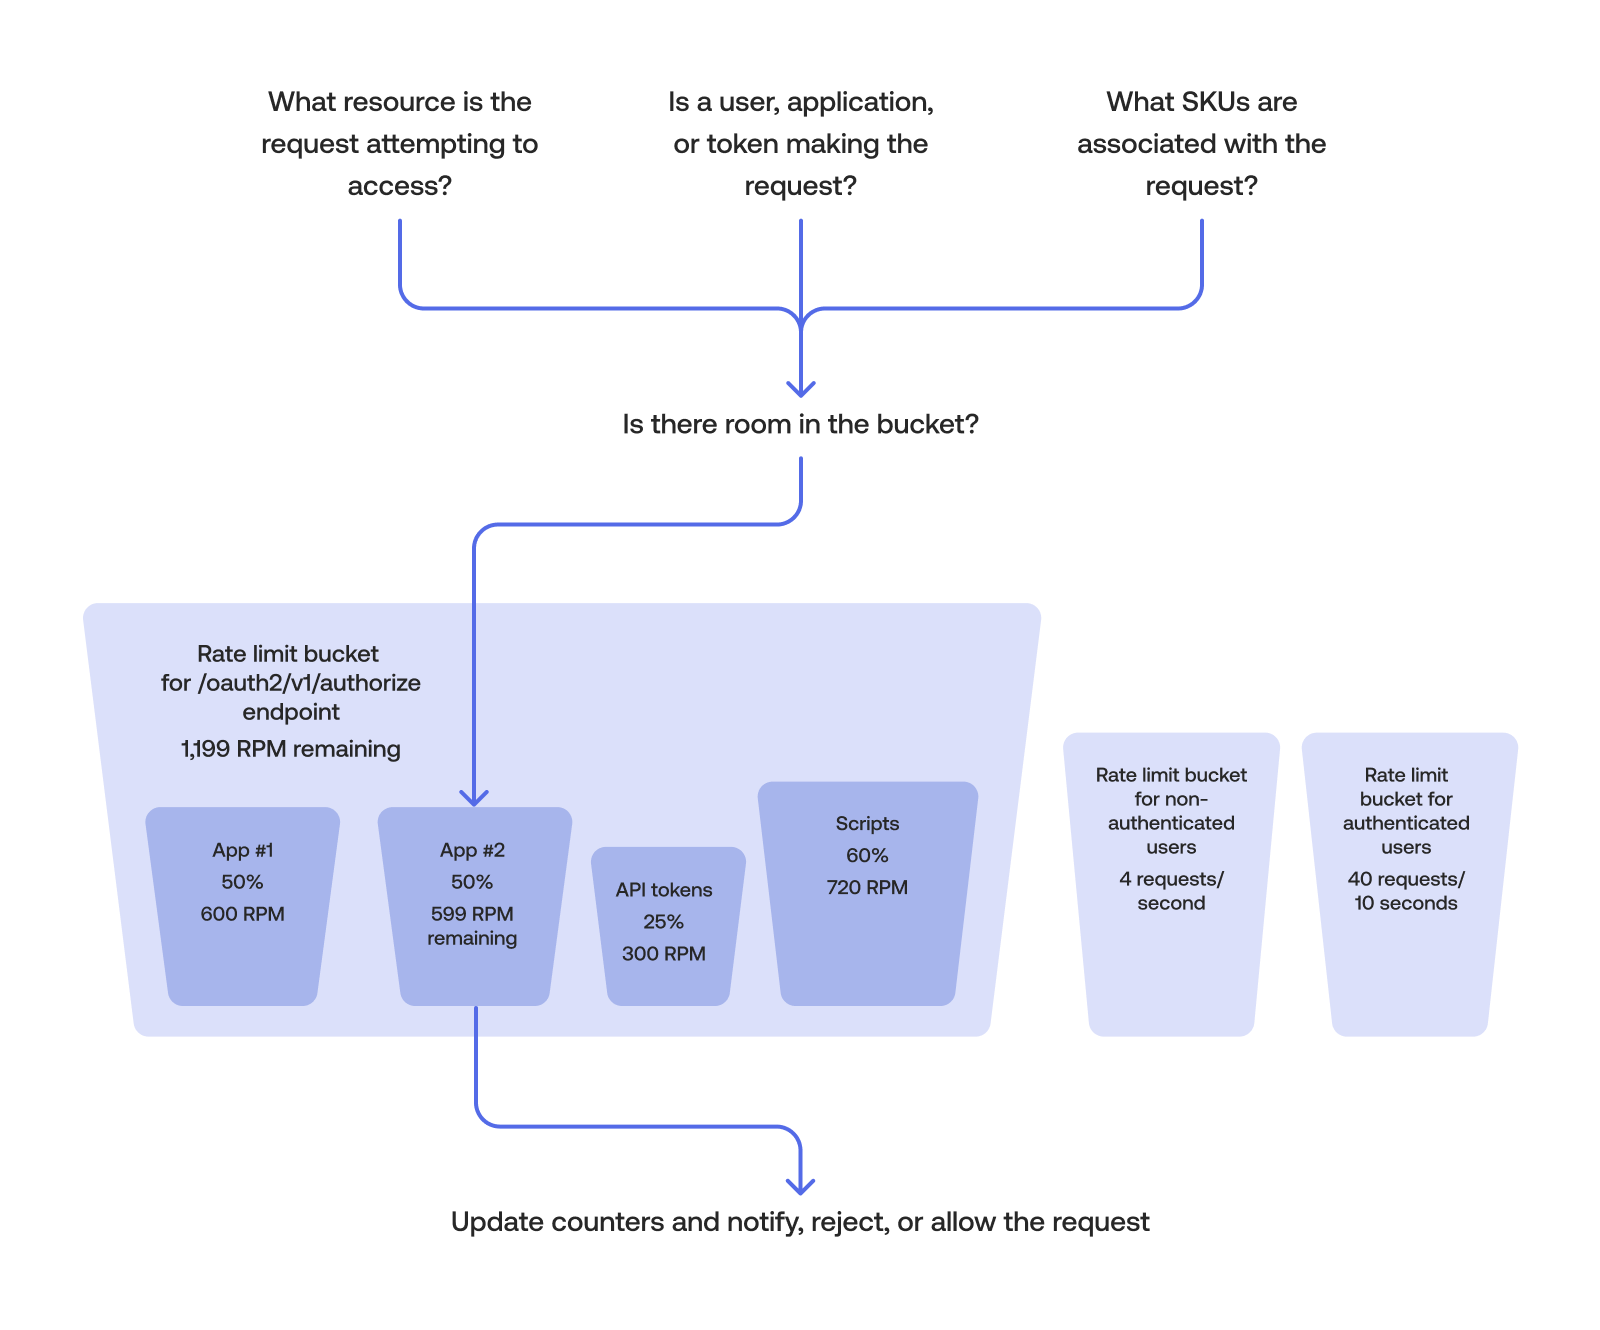
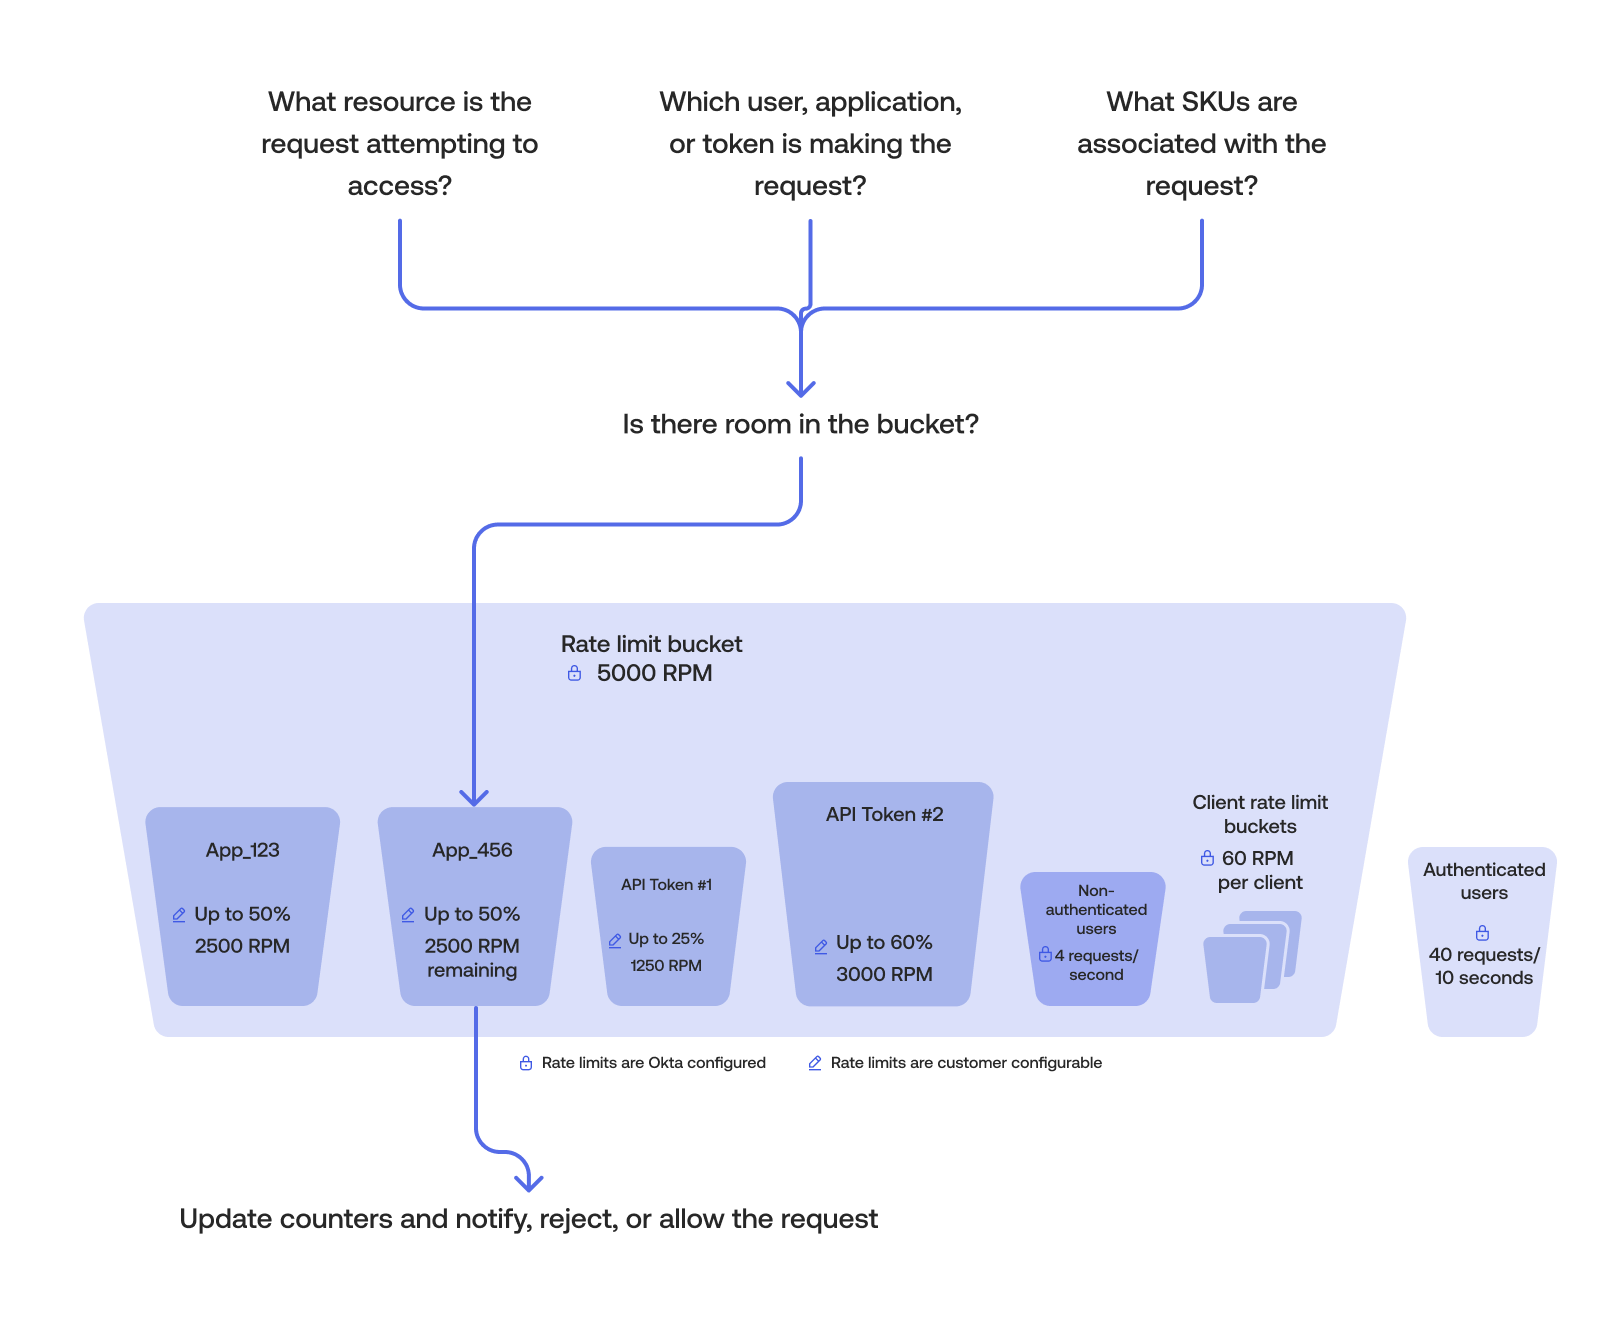
Update images and adding two new ones for client-based limits

diff --git a/packages/@okta/vuepress-site/docs/reference/rl2-monitor/index.md b/packages/@okta/vuepress-site/docs/reference/rl2-monitor/index.md
@@ -68,7 +68,7 @@ The **Overview** tab is your monitoring hub. Use it to scan for issues or drill 
 
 You can hover to reveal detailed data points, click an API to see deeper metrics and historical usage, or filter by time period, multiplier status, or event type.
 
-<div >
+<div class="half">
 
 ![This image displays the rate limit dashboard to monitor and browse rate limit usage.](/img/rate-limits/rl_dashboard6.png)
 
@@ -78,7 +78,7 @@ You can hover to reveal detailed data points, click an API to see deeper metrics
 
 The event count graph plots the number of violations, bursts, and warnings over the selected time period, which can be the last 24 hours, the last seven days, last month, or the last three months. The events by API bar graph shows the top five number of events by API over the same time period.
 
-<div class="three-quarter">
+<div class="half">
 
 ![This image displays the events (violations, bursts, and warnings) over a time period graph and the bar graph with the top five endpoint events.](/img/rate-limits/rl_dashboard7.png)
 
@@ -88,7 +88,7 @@ You can hover over the line graph or bar graph to get more details. The details 
 
 <div class="half">
 
-![Displays details on the violations graph.](/img/rate-limits/rl_dashboard8.png)
+![This image displays details on the violations graph.](/img/rate-limits/rl_dashboard8.png)
 
 </div>
 
@@ -102,7 +102,7 @@ This sortable, filterable table shows each API endpoint showing:
 
 You can also use the search box to look up specific endpoints. For example, you're calling Okta with an example `requestURI` and you want to know the rate limit that's applied to calls that are made against that `requestURI`.
 
-<div class="three-quarter">
+<div class="half">
 
 ![Displays the APIs table with corresponding rate limits for each API.](/img/rate-limits/rl_dashboard9.png)
 

diff --git a/packages/@okta/vuepress-site/docs/reference/rl2-client-based/index.md b/packages/@okta/vuepress-site/docs/reference/rl2-client-based/index.md
@@ -42,6 +42,10 @@ If the org-wide limit for the `/authorize` endpoint is 2,000 requests per minute
 
 * With client-based limits enabled: After Bob exceeds his individual 60-request limit, only requests from his specific client combination are blocked. Alice and any other clients can continue to access the app without any issues.
 
+<div class="half">
+![This image displays scenario 1 of users on different networks accessing the same portal](/img/rate-limits/scenario1-diff-networks.png)
+</div>
+
 ### Scenario 2: Users behind a corporate firewall (NAT)
 
 Now imagine Alice, Bob, and Lisa are in the same office, sharing a single Network Address Translation (NAT) IP address. Because the device identifier is unique to each user's browser, Okta can still provide individual rate limit buckets.
@@ -53,6 +57,10 @@ Now imagine Alice, Bob, and Lisa are in the same office, sharing a single Networ
 This ensures that even when sharing an IP address, one user's activity won't impact the others.
 
 >**Note:** The device identifier is derived from a cookie (`dt` cookie) that Okta sets in the browser. For non-browser clients where this cookie isn't present, requests from the same NAT IP and client ID will share a common quota where the device identifier is null (NAT IP + portal123 + null).
+
+<div class="half">
+![This image displays scenario 2 of users on different networks accessing the same portal through a corporate fire wall](/img/rate-limits/scenario2-firewall.png)
+</div>
 
 ### Handle proxies
 

diff --git a/packages/@okta/vuepress-site/docs/reference/rl2-token-oauth/index.md b/packages/@okta/vuepress-site/docs/reference/rl2-token-oauth/index.md
@@ -13,11 +13,15 @@ You can change how much rate limit each API token or OAuth 2.0 app can use in th
 
 Configuring rate limits by token in the Admin Console:
 
+<div class="half">
+
 ![This image displays the location in the Admin Console that configures rate limits by token using a slide-bar percentage.](/img/rate-limits/rate-limit-token.png)
 
 </div>
 
 Configuring rate limits by OAuth 2.0 app in the Admin Console:
+
+<div class="half">
 
 ![This image displays the location in the Admin Console that configures rate limits by the OAuth 2.0 app using a slide-bar percentage.](/img/rate-limits/rate-limit-apps.png)
 
